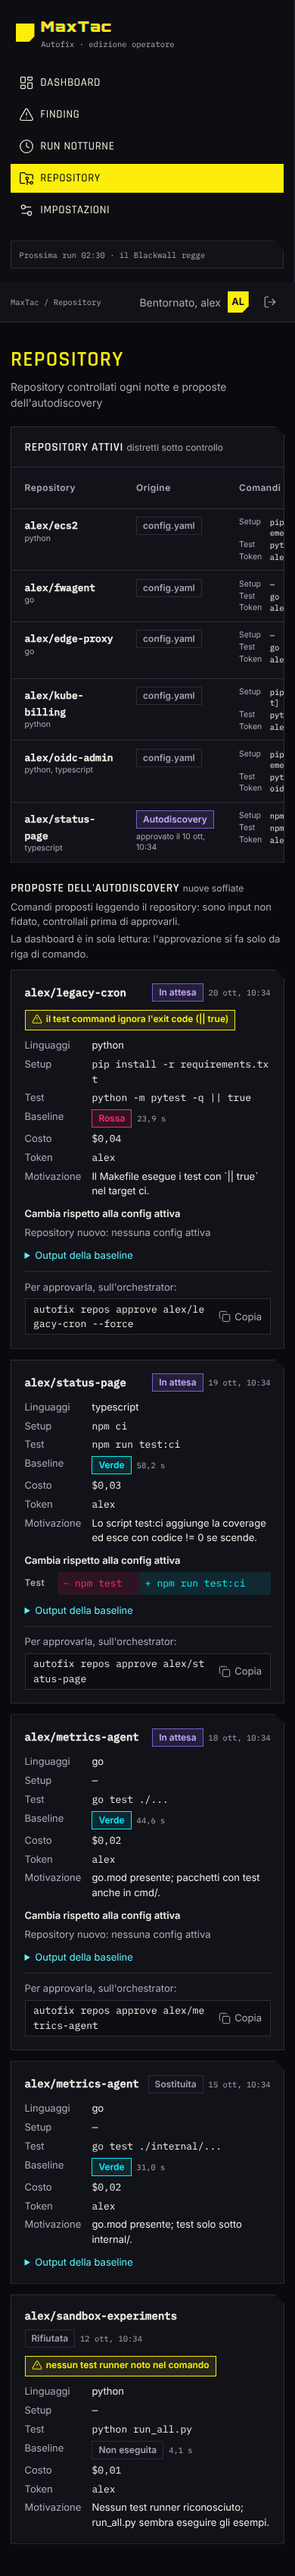
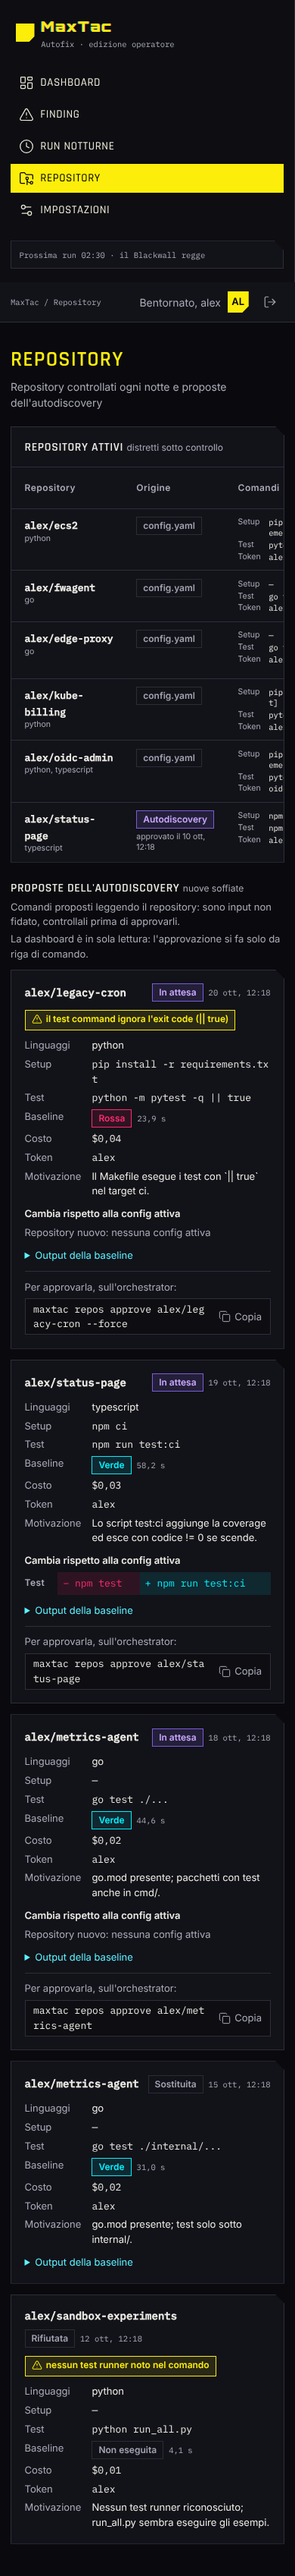
Dashboard: CLI name in copy commands follows the user's lexicon
The server keeps writing the neutral 'autofix' command; the SPA swaps the
program name with the 'cli.name' label, which only the assigned theme overrides.

Claude-Session: https://claude.ai/code/session_01PkWuePVF395fHCTsFrVvXv

diff --git a/frontend/tests/e2e/common.spec.ts b/frontend/tests/e2e/common.spec.ts
@@ -126,15 +126,17 @@ test('repository attivi e proposte dell autodiscovery, senza scritture', async (
 	const legacy = proposals.filter({ hasText: 'alex/legacy-cron' });
 	await expect(legacy.getByText("il test command ignora l'exit code (|| true)")).toBeVisible();
 	await expect(legacy.getByText('Rossa')).toBeVisible();
-	await expect(legacy.getByText('autofix repos approve alex/legacy-cron --force')).toBeVisible();
+	// il nome del comando segue il lessico: maxtac per l'operatore, autofix per gli altri
+	const cli = test.info().project.name === 'operator' ? 'maxtac' : 'autofix';
+	await expect(legacy.getByText(`${cli} repos approve alex/legacy-cron --force`)).toBeVisible();
 	const update = proposals.filter({ hasText: 'alex/status-page' });
 	await expect(update.getByTestId('changes')).toContainText('npm run test:ci');
 	await expect(
-		update.getByText('autofix repos approve alex/status-page', { exact: true })
+		update.getByText(`${cli} repos approve alex/status-page`, { exact: true })
 	).toBeVisible();
 	await expect(proposals.filter({ hasText: 'Sostituita' })).toHaveCount(1);
 	const rejected = proposals.filter({ hasText: 'Rifiutata' });
-	await expect(rejected.getByText(/autofix repos approve/)).toHaveCount(0);
+	await expect(rejected.getByText(/(autofix|maxtac) repos approve/)).toHaveCount(0);
 	expect(writes).toEqual([]);
 	expect(w.problems).toEqual([]);
 });

diff --git a/frontend/src/lib/svelte/page/repos/components/CopyCommand.svelte b/frontend/src/lib/svelte/page/repos/components/CopyCommand.svelte
@@ -2,7 +2,10 @@
 	import { Check, Copy } from '@lucide/svelte';
 	import { t } from '$lib/lexicon/index.svelte';
 
-	let { command }: { command: string } = $props();
+	let { command: raw }: { command: string } = $props();
+
+	// Il server scrive sempre il comando neutro; il nome mostrato segue il lessico dell'utente.
+	const command = $derived(raw.replace(/^autofix\b/, t('cli.name')));
 
 	let copied = $state(false);
 	let code = $state<HTMLElement>();

diff --git a/src/maxtac/presentation/lexicon.py b/src/maxtac/presentation/lexicon.py
@@ -95,6 +95,7 @@ CYBERPUNK = Lexicon(
     # Override delle etichette della dashboard (chiavi di frontend/src/lib/lexicon/neutral.json)
     ui={
         "brand": "MaxTac",
+        "cli.name": "maxtac",
         "brandSub": "Autofix · edizione operatore",
         "greeting": "Bentornato, {user}",
         "nextRun": "Prossima run {time} · il Blackwall regge",

diff --git a/CHANGELOG.md b/CHANGELOG.md
@@ -9,6 +9,8 @@ adotta il [Semantic Versioning](https://semver.org/lang/it/).
 
 ### Added
 
+- Dashboard: il comando da copiare nella pagina Repository segue il lessico dell'utente
+  (etichetta `cli.name`); il server scrive sempre il comando neutro `autofix`.
 - Più token GitLab: `gitlab.tokens` con un nome e i prefissi di path coperti (gruppo,
   sottogruppo o progetto); ogni repo usa il token con il prefisso più specifico. I valori
   stanno in `secrets/gitlab_tokens/<nome>` (montata dal compose) o in `GITLAB_TOKEN_<NOME>`.
